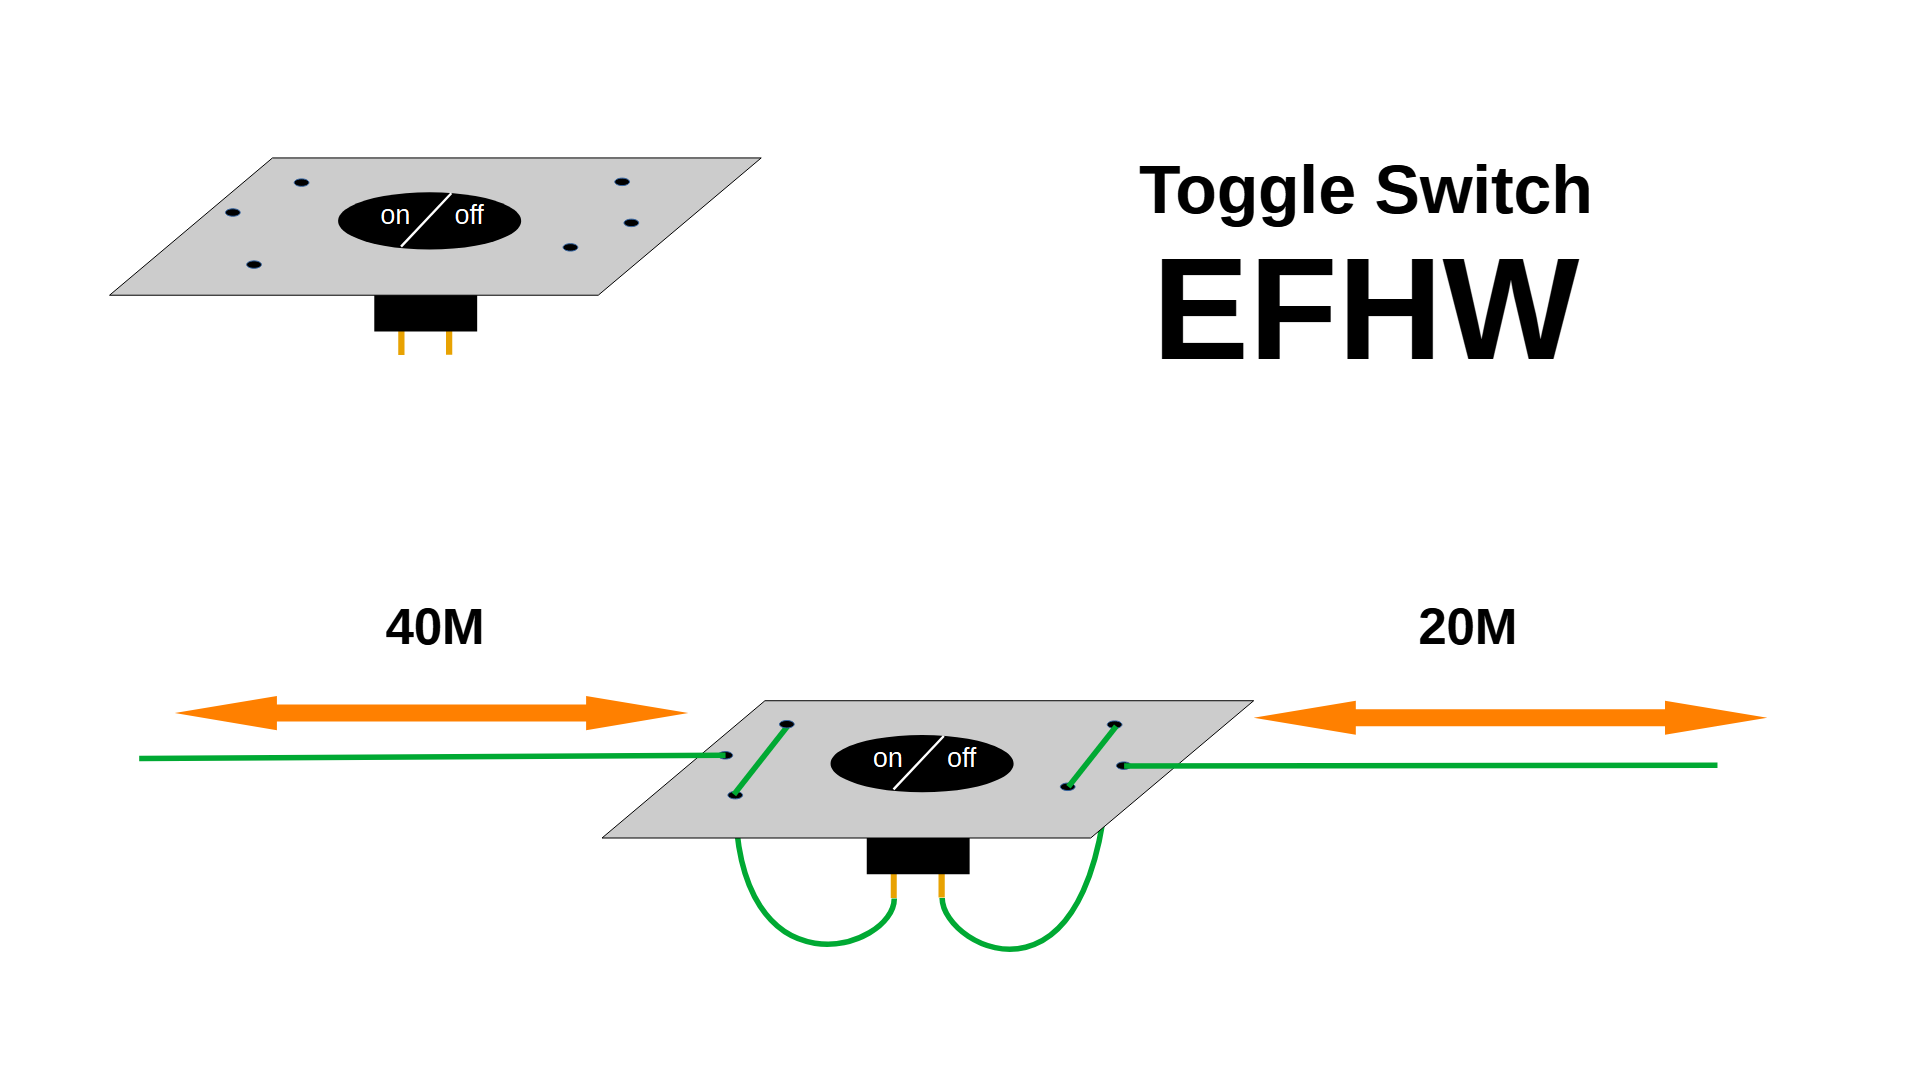
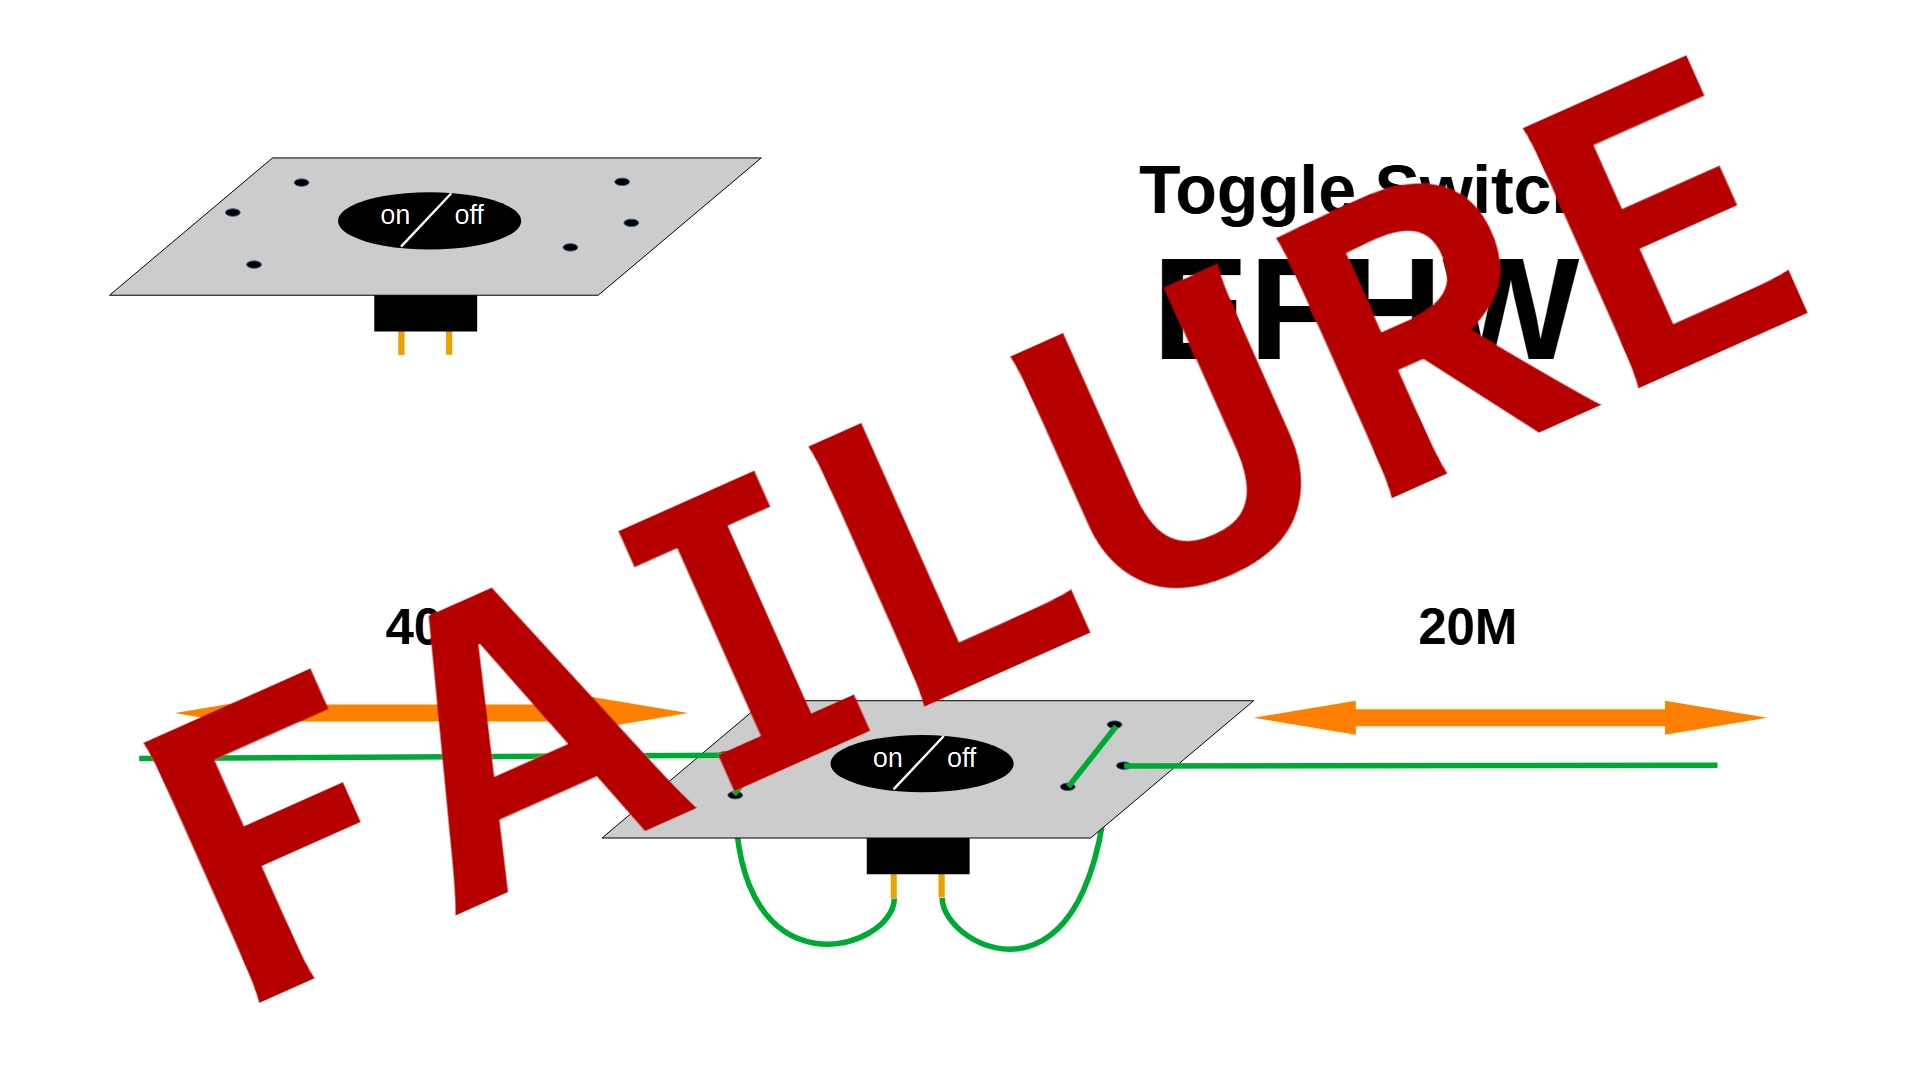
20250422-Fail

diff --git a/_posts/2025-04-17-Toggle.md b/_posts/2025-04-17-Toggle.md
@@ -1,11 +1,17 @@
 ---
-title: Toggle Switch EFHW
+title: Toggle Switch EFHW -- FAILURE
 date: 2025-04-17 06:00:00 -0600
 categories: [hamradio,antennas]
 tags: [EFHW, Toggle, Switch]
 ---
 
-When I got my first EFHW transformer from [TennTennas](https://www.ebay.com/itm/156648684826), I was totally stoked! 40M, 20M, 15M and 10M with resonant harmonics! 4 bands in one with no tuner needed! It was so great! But then I realized that the convenience trade off came at a loss in efficiency. And also, the radiation pattern of the antenna goes wonky when you transmit on harmonics. Maybe there was a better way?
+**UPDATE**
+
+After more field testing, this build was an abject failure! The toggle switch is too close together and I believe the wires capacitively couple together. You can't adjust the wire legs independently of each other due to this. You can dial in 40M close but then the 20M section gets whacky. So it is back to the drawing board on this idea! Post is left up for posterity. 
+
+-----
+
+When I got my first EFHW transformer from [TennTennas](https://www.ebay.com/itm/156648684826), I was totally stoked! 40M, 20M, 15M and 10M with resonant harmonics! 4 bands in one with no tuner needed! It was so great! But then I realized that the convenience trade off came at a loss in efficiency. And also, the radiation pattern of the antenna goes wonky when you [transmit on harmonics](https://www.qsl.net/kk4obi/EFHW%20Straight.html). Maybe there was a better way?
 
 ![EFHW](./assets/Toggle/ToggleEFHW.webp)
 
